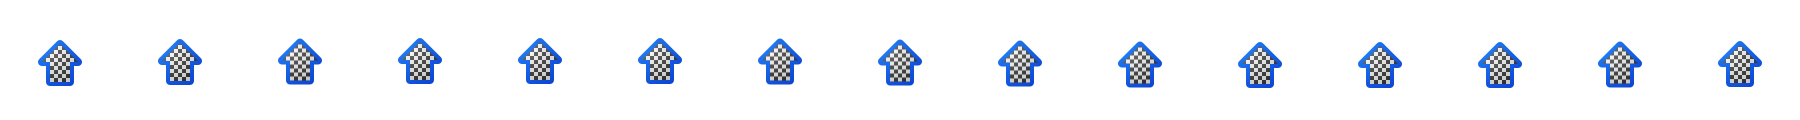
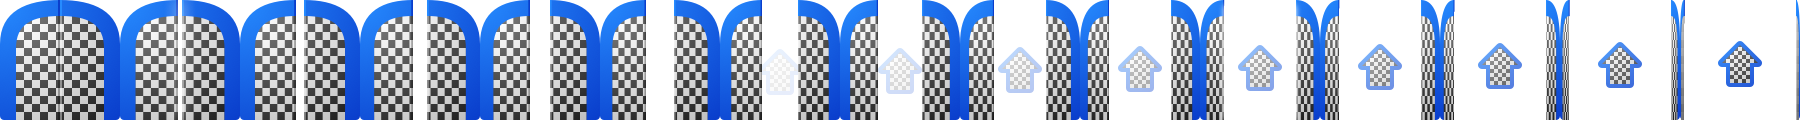
Changes in graphics rendering: Fixed elevators and cushion. Using new exit door graphics and animations.

diff --git a/game/src/renderer/LevelRenderer.js b/game/src/renderer/LevelRenderer.js
@@ -81,6 +81,9 @@ var LevelRenderer = function()
     this.anim_keyyellow_away = null;
     this.anim_elevatorleft_throw = null;
     this.anim_elevatorright_throw = null;    
+    this.anim_elevatorleft_move = null;
+    this.anim_elevatorright_move = null;    
+    this.anim_pillow_move = null;    
     this.anim_laser_h = null;
     this.anim_laser_v = null;
     this.anim_laser_bl = null;
@@ -109,12 +112,12 @@ LevelRenderer.prototype.$ = function(game)
         "Earth All","Wall All", "Wall Round All",
         "Earth Right", "Sand", "Glass", "Stone Wall", "Round Stone Wall",
         "Wall Emerald", "Emerald", "Citrine", "Sapphire", "Ruby", 
-        "Stone Right", "Bag", "Bomb", // "Stone Emerald",         
-        "Exit Closed", "Exit", "Swamp Move", "Swamp Grow", 
+        "Stone Right", "Bag", "Bomb", 
+        "Exit Open", "Exit", "Swamp Move", "Swamp Grow", 
         "Drop Left", "Drop Right", "Drop Down", "Drop", "Converter", "Converter Working",
-        "Timebomb", "Tickbomb", "TNT", "Safe", "Pillow", "Elevator", "Elevator Left",
-        "Elevator Right", "Elevator Left Throw", "Elevator Right Throw", "Gun", 
-        "Acid", "Acid Left End", "Acid Right End", "Acid Both Ends",
+        "Timebomb", "Tickbomb", "TNT", "Safe", "Pillow", "Pillow Move", 
+        "Elevator", "Elevator Left", "Elevator Right", "Elevator Left Throw", "Elevator Right Throw", 
+        "Gun", "Acid", "Acid Left End", "Acid Right End", "Acid Both Ends",
         "Key Blue", "Key Red", "Key Green", "Key Yellow", 
         "Door Blue", "Door Red", "Door Green", "Door Yellow", "Door Onetime",
         "Door Onetime Closed", "Lorry", "Bug", 
@@ -157,7 +160,7 @@ LevelRenderer.prototype.isLoaded = function()
 //    this.piecetiles[ROCKEMERALD] = this.getAnimation("Stone Emerald");
     this.piecetiles[BAG] = this.getAnimation("Bag");
     this.piecetiles[BOMB] = this.getAnimation("Bomb");         
-    this.piecetiles[DOOR] = this.getAnimation("Exit Closed");
+    this.piecetiles[DOOR] = this.getAnimation("Exit");
     this.piecetiles[SWAMP] = this.getAnimation("Swamp Move");    
     this.piecetiles[DROP] = this.getAnimation("Drop");
     this.piecetiles[TIMEBOMB] = this.getAnimation("Timebomb");    
@@ -167,8 +170,8 @@ LevelRenderer.prototype.isLoaded = function()
     this.piecetiles[BOX] = this.getAnimation("Safe");
     this.piecetiles[CUSHION] = this.getAnimation("Pillow");
     this.piecetiles[ELEVATOR] = this.getAnimation("Elevator");
-    this.piecetiles[ELEVATOR_TOLEFT] = this.getAnimation("Elevator Left");
-    this.piecetiles[ELEVATOR_TORIGHT] = this.getAnimation("Elevator Right");
+    this.piecetiles[ELEVATOR_TOLEFT] = this.createStillAnimation(this.getAnimation("Elevator Left"));
+    this.piecetiles[ELEVATOR_TORIGHT] = this.createStillAnimation(this.getAnimation("Elevator Right"));
     // this.piecetiles[ACID]     // has context-depending tiles
     this.piecetiles[KEYBLUE] = this.getAnimation("Key Blue");
     this.piecetiles[KEYRED] = this.getAnimation("Key Red");
@@ -202,9 +205,9 @@ LevelRenderer.prototype.isLoaded = function()
     this.piecetiles[EMERALD_FALLING] = this.getAnimation("Emerald");
     this.piecetiles[BOMB_FALLING] = this.getAnimation("Bomb");
     this.piecetiles[BAG_FALLING] = this.getAnimation("Bag");
-    this.piecetiles[DOOR_OPENED] = this.getAnimation("Exit");
-    this.piecetiles[DOOR_CLOSING] = this.createStillAnimation(this.getAnimation("Exit"));
-    this.piecetiles[DOOR_CLOSED] = this.getAnimation("Exit Closed");
+    this.piecetiles[DOOR_OPENED] = this.getAnimation("Exit Open");
+    this.piecetiles[DOOR_CLOSING] = this.getAnimation("Exit Open");
+    this.piecetiles[DOOR_CLOSED] = this.getAnimation("Exit");
     this.piecetiles[LORRYLEFT_FIXED] = this.createRotatedAnimation(this.getAnimation("Lorry"),0);
     this.piecetiles[LORRYDOWN_FIXED] = this.createRotatedAnimation(this.getAnimation("Lorry"),90);
     this.piecetiles[LORRYRIGHT_FIXED] = this.createRotatedAnimation(this.getAnimation("Lorry"),180);
@@ -402,6 +405,9 @@ LevelRenderer.prototype.isLoaded = function()
     this.anim_drophit = this.createOverlayAnimation(this.getAnimation("Drop"),this.getAnimation("Swamp Grow"));   
     this.anim_elevatorleft_throw = this.getAnimation("Elevator Left Throw");
     this.anim_elevatorright_throw = this.getAnimation("Elevator Right Throw");    
+    this.anim_elevatorleft_move = this.getAnimation("Elevator Left");
+    this.anim_elevatorright_move = this.getAnimation("Elevator Right");
+    this.anim_pillow_move = this.getAnimation("Pillow Move");
     this.anim_lorry_right_up = this.createRotatingAnimation(this.piecetiles[LORRYRIGHT], 0,90);
     this.anim_lorry_up_left = this.createRotatingAnimation(this.piecetiles[LORRYRIGHT], 90,180);
     this.anim_lorry_left_down = this.createRotatingAnimation(this.piecetiles[LORRYRIGHT], 180,270);
@@ -749,6 +755,17 @@ LevelRenderer.prototype.determineMoveAnimation = function(oldpiece, newpiece, x,
             else if (dx>0) { return this.anim_bomb_right; }
             break;      
         }
+        case ELEVATOR_TOLEFT:
+        {   if (dy<0) { return this.anim_elevatorleft_move; }   
+            break;
+        }
+        case ELEVATOR_TORIGHT:
+        {   if (dy<0) { return this.anim_elevatorright_move; }
+            break;
+        }
+        case CUSHION:
+        {   return this.anim_pillow_move;
+        }
     }
 
     // when doing "far" animations, there could be a change of visual in the middle of the action
@@ -910,8 +927,17 @@ LevelRenderer.prototype.determineTransformAnimation = function (oldpiece, newpie
         {   if (oldpiece==DROP) { return this.anim_drophit; }
             else                { return null;  }  // do not draw over direction-dependent animation
         }
-        case DOOR_CLOSED: { return this.anim_exit_closing };
-        case DOOR_CLOSING: { return null; } // prevent man being over-drawn by door
+        case DOOR_OPENED: 
+        {   if (oldpiece==DOOR) return this.piecetiles[DOOR]; 
+            break;
+        }
+        case DOOR_CLOSING: 
+        {   return null;  // prevent man being over-drawn by door
+        }
+        case DOOR_CLOSED: 
+        {   if (oldpiece==DOOR_CLOSING) { return this.anim_exit_closing; }
+            break;
+        }
         case ONETIMEDOOR_CLOSED: { return this.piecetiles[ONETIMEDOOR]; }
         case CUSHION: 
         {   if (oldpiece==CUSHION_BUMPING) { return null; }
@@ -946,8 +972,7 @@ LevelRenderer.prototype.determineTransformAnimation = function (oldpiece, newpie
 LevelRenderer.prototype.determineHighlightAnimation = function (highlightpiece, originatingx, originatingy, logic)
 {
     switch (highlightpiece)
-    {   case DOOR_OPENED: { return this.piecetiles[DOOR_CLOSING]; }
-        case EARTH:
+    {   case EARTH:
         {   return this.earthtiles[this.earthJaggedConfiguration(logic, originatingx, originatingy)];
         }
         case LASER_V: { return this.anim_laser_v; }
@@ -960,6 +985,8 @@ LevelRenderer.prototype.determineHighlightAnimation = function (highlightpiece, 
         case LASER_R: { return this.anim_laser_right; }
         case LASER_U: { return this.anim_laser_up; }
         case LASER_D: { return this.anim_laser_down; }
+        case ELEVATOR_TOLEFT: { return this.anim_elevatorleft_throw; }
+        case ELEVATOR_TORIGHT: { return this.anim_elevatorright_throw; }
     }        
     
     return this.piecetiles[highlightpiece];

diff --git a/game/src/logic/Logic.js b/game/src/logic/Logic.js
@@ -354,11 +354,15 @@ Logic.prototype.piecesmove = function()
                 }
                 
                 // huge decision - tree what to do with each piece 
-                switch (this.piece(x,y))
+                var piece = this.piece(x,y);
+                switch (piece)
                 {   case DOOR:
                         if (this.counters[CTR_EMERALDSCOLLECTED]>=this.level.getLoot())
                         {   this.transform(x,y, DOOR_OPENED);
                         }
+                        break;
+                    case DOOR_OPENED:
+                        this.highlight(x,y, piece);
                         break;
                     case DOOR_CLOSING:
                         this.transform(x,y, DOOR_CLOSED);                        
@@ -710,7 +714,6 @@ Logic.prototype.piecesmove = function()
                         break;
                     }                               
                     
-
                     case BOMB:
                     {   if (this.is(x,y+1,AIR))
                         {   this.move(x,y,0,1,BOMB_FALLING);
@@ -980,23 +983,22 @@ Logic.prototype.piecesmove = function()
                     case YAMYAMRIGHT:
                     case YAMYAMUP:
                     case YAMYAMDOWN:
-                    {   var ypiece = this.piece(x,y); 
-                        var dx = (ypiece==YAMYAMLEFT) ? -1 : (ypiece==YAMYAMRIGHT) ? 1 : 0;
-                        var dy = (ypiece==YAMYAMUP) ? -1 : (ypiece==YAMYAMDOWN) ? 1 : 0;                        
+                    {   var dx = (piece==YAMYAMLEFT) ? -1 : (piece==YAMYAMRIGHT) ? 1 : 0;
+                        var dy = (piece==YAMYAMUP) ? -1 : (piece==YAMYAMDOWN) ? 1 : 0;                        
                         if (this.is_neardestruct_target(x,y) || this.is_player_piece_at(x+dx,y+dy)) 
                         {   this.explode3x3(x,y, Logic.DEBRIS_YAMYAM);
                         }
                         else if (this.is(x+dx,y+dy,AIR))
-                        {   this.move(x,y, dx,dy, ypiece);
+                        {   this.move(x,y, dx,dy, piece);
                         }
                         else if (this.is(x+dx,y+dy,SAPPHIRE))
                         {   this.transform (x+dx,y+dy, AIR);
-                            this.highlight(x,y, ypiece);
+                            this.highlight(x,y, piece);
                             this.changecounter(CTR_EMERALDSTOOMUCH, -2); 
                         }
                         else if (this.is(x+dx,y+dy,CITRINE))
                         {   this.transform (x+dx,y+dy, AIR);
-                            this.highlight(x,y, ypiece);
+                            this.highlight(x,y, piece);
                             this.changecounter(CTR_EMERALDSTOOMUCH, -3); 
                         }
                         else
@@ -1970,7 +1972,7 @@ Logic.prototype.playermove = function (player)
         // leave through exit
         else if (this.is(x+dx,y+dy,DOOR_OPENED))
         {
-            this.highlight(x+dx,y+dy, DOOR_OPENED);  
+            this.highlight(x+dx,y+dy, DOOR_OPENED);
             this.move (x,y, dx,dy, manpiece);
             this.transform(x+dx,y+dy, DOOR_CLOSING);
             
